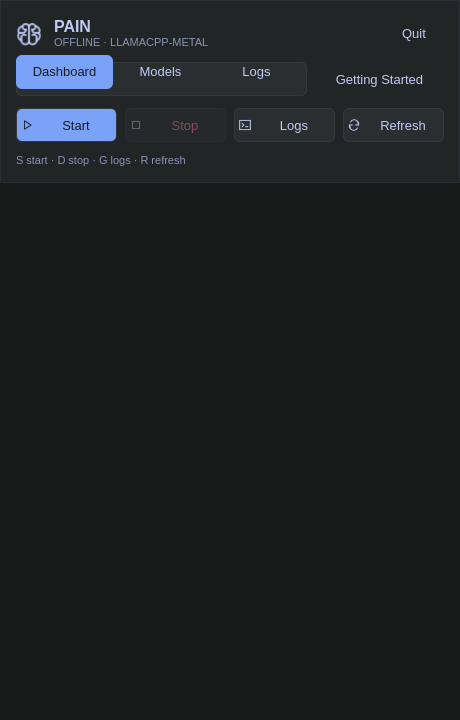
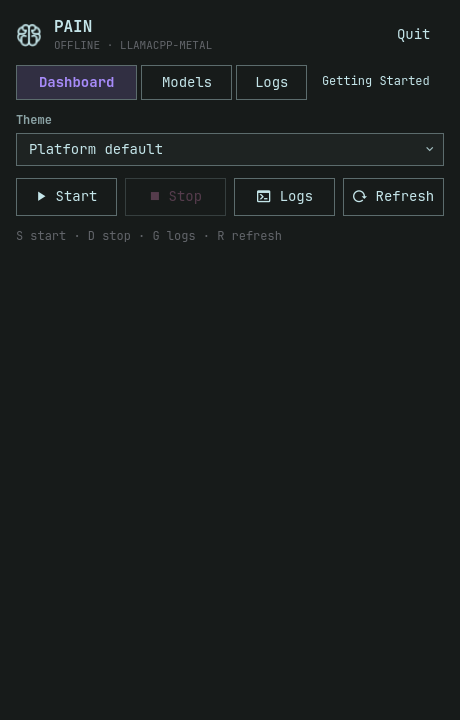
Use platform themes with a saved appearance picker and native buttons

diff --git a/desktop/src/Tray.stories.ts b/desktop/src/Tray.stories.ts
@@ -10,3 +10,26 @@ export const Ready = scenario({when:'The engine is ready',then:'The model name a
 export const Generating = scenario({when:'The engine generates tokens',then:'Context use and speed are shown',check:async ({canvasElement})=>{for(const reading of within(canvasElement).getAllByText('24.5 tok/s')) await expect(reading).toBeVisible();}},{render:()=>domStory(panel(fixtures.generating,onAction))});
 export const Starting = scenario({when:'The engine is starting',then:'Start is disabled until the operation finishes',check:async ({canvasElement})=>{const start=within(canvasElement).getByRole('button',{name:'Starting…'});await expect(start).toHaveAttribute('aria-disabled','true');onAction.mockClear();await userEvent.click(start);await expect(onAction).not.toHaveBeenCalled();}},{render:()=>domStory(panel(fixtures.starting,onAction))});
 export const Failure = scenario({when:'Metal is unavailable',then:'The actionable failure is visible',check:async ({canvasElement})=>{await expect(within(canvasElement).getByRole('alert')).toHaveTextContent('No VirtGPU Metal device');}},{render:()=>domStory(panel(fixtures.failure,onAction))});
+
+export const Appearance = scenario({
+  when:'The appearance changes while editing a model URL',
+  then:'The selected theme applies immediately without changing the page, input, or engine',
+  check:async ({canvasElement})=>{
+    const c=within(canvasElement);
+    const saved=localStorage.getItem('pain.appearance');
+    try {
+      await userEvent.click(c.getByRole('tab',{name:'Models'}));
+      await userEvent.type(c.getByRole('textbox',{name:'Model GGUF URL'}),'https://example.invalid/model.gguf');
+      onAction.mockClear();
+      await userEvent.selectOptions(c.getByRole('combobox',{name:'Theme'}),'omarchy');
+      await expect(canvasElement.querySelector('.zen-application')).toHaveAttribute('data-appearance','omarchy');
+      await expect(c.getByRole('textbox',{name:'Model GGUF URL'})).toHaveValue('https://example.invalid/model.gguf');
+      await expect(localStorage.getItem('pain.appearance')).toBe('omarchy');
+      await expect(onAction).not.toHaveBeenCalled();
+      await userEvent.selectOptions(c.getByRole('combobox',{name:'Theme'}),'platform');
+      await expect(canvasElement.querySelector('.zen-application')).toHaveAttribute('data-appearance','visuals');
+    } finally {
+      if(saved===null)localStorage.removeItem('pain.appearance');else localStorage.setItem('pain.appearance',saved);
+    }
+  },
+},{render:()=>domStory(panel(fixtures.offline,onAction))});

diff --git a/desktop/src/panel.tsx b/desktop/src/panel.tsx
@@ -3,6 +3,7 @@ import { Application } from '@satoramoto/zen/harness/omarchy/bench/Application.t
 import type { ApplicationNode } from '@satoramoto/zen/harness/omarchy/kit/application.mjs';
 import { appView } from '../../integrations/omarchy/pain/App.mjs';
 import { initialState, transition, keyAction } from '../../integrations/omarchy/pain/AppState.mjs';
+import { appearanceFor, validTheme } from '../../integrations/omarchy/pain/Appearance.mjs';
 import { ThemeFrame } from './theme';
 import './style.css';
 
@@ -25,20 +26,25 @@ type Act = (name: Action, value?: string) => void;
 
 // This host supplies state and executes effects. Layout lives in App.mjs.
 function Panel({ status, action, logs }: { status: Status; action: Act; logs: LogsState }) {
-  const [ui, setUi] = useState(() => initialState(status));
+  const [ui, setUi] = useState(() => {
+    const state = initialState(status);
+    try { const saved = localStorage.getItem('pain.appearance'); if (validTheme(saved)) state.theme = saved!; } catch { /* A restricted webview can still use the platform default. */ }
+    return state;
+  });
   useEffect(() => setUi(current => ({ ...current, folder: status.modelsDir || '' })), [status.modelsDir]);
   const send = (name: string, payload?: unknown, value?: unknown) => {
     const next = transition(ui, status, name, value === undefined ? payload : value, logs);
     setUi(next.state);
+    if (name === 'select-theme') { try { localStorage.setItem('pain.appearance', next.state.theme); } catch { /* Keep the live selection when storage is unavailable. */ } }
     for (const effect of next.effects) {
       if (effect.action !== 'close') action(effect.action as Action, effect.payload as string | undefined);
     }
   };
-  return <Application tree={appView(status, ui, logs) as ApplicationNode} dispatch={send} handleKey={key => {
+  return <ThemeFrame appearance={appearanceFor(ui.theme, 'mac')}><Application appearance={appearanceFor(ui.theme, 'mac')} tree={appView(status, ui, logs) as ApplicationNode} dispatch={send} handleKey={key => {
     const command = keyAction(ui, key);
     if (!command) return false;
     send(command); return true;
-  }} />;
+  }} /></ThemeFrame>;
 }
 
-export const panel = (status: Status, action: Act, logs: LogsState = initialLogs) => <ThemeFrame><Panel status={status} action={action} logs={logs} /></ThemeFrame>;
+export const panel = (status: Status, action: Act, logs: LogsState = initialLogs) => <Panel status={status} action={action} logs={logs} />;

diff --git a/integrations/omarchy/pain/Widget.qml b/integrations/omarchy/pain/Widget.qml
@@ -1,5 +1,6 @@
 import QtQuick
 import QtQuick.Controls
+import QtCore
 import Quickshell
 import Quickshell.Io
 import qs.Ui
@@ -7,6 +8,7 @@ import qs.Commons as Commons
 import "Model.js" as Model
 import "App.mjs" as View
 import "AppState.mjs" as State
+import "Appearance.mjs" as Appearance
 import ".generated" as Zen
 
 // Native host only: window, IPC, telemetry polling and action execution.
@@ -15,6 +17,12 @@ Panel {
   moduleName: "local.pain"
   ipcTarget: "local.pain"
   manageIpc: false
+  Settings {
+    id:preferences
+    location:"file://"+(Quickshell.env("XDG_STATE_HOME") || Quickshell.env("HOME")+"/.local/state")+"/pain/ui.ini"
+    property string appearance:"platform"
+  }
+  Zen.ApplicationTheme { id:applicationTheme; name:Appearance.appearanceFor(root.ui.theme,"linux") }
   property var status: ({})
   property var ui: State.initialState()
   property var logs: ({state:"idle",content:"",error:""})
@@ -37,6 +45,7 @@ Panel {
   function dispatch(action,payload,value) {
     var next=State.transition(ui,viewStatus,action,value===undefined?payload:value,logs)
     ui=next.state
+    if(action==="select-theme") preferences.appearance=ui.theme
     for(var effect of next.effects) {
       if(effect.action === "refresh") refresh()
       else if(effect.action === "close" || effect.action === "quit") close()
@@ -67,7 +76,7 @@ Panel {
   }
   implicitWidth:button.implicitWidth
   implicitHeight:button.implicitHeight
-  Component.onCompleted:refresh()
+  Component.onCompleted:{ ui=Object.assign({},ui,{theme:Appearance.validTheme(preferences.appearance)?preferences.appearance:"platform"}); refresh() }
   onOpenedChanged:if(opened) { refresh(); Qt.callLater(()=>application.forceActiveFocus()) }
   // Poll slowly for the bar glyph while closed; the open panel tracks the slot.
   Timer {
@@ -157,7 +166,7 @@ Panel {
     contentWidth:panel.fittedContentWidth(460)
     contentHeight:panel.fittedContentHeight(application.implicitHeight,720)
     Zen.Application {
-      id:application; anchors.fill:parent; tree:root.tree
+      id:application; anchors.fill:parent; tree:root.tree; theme:applicationTheme.snapshot
       onDispatched:function(action,payload,value) { root.dispatch(action,payload,value) }
       Keys.onPressed:function(event) {
         if(event.modifiers & (Qt.ControlModifier | Qt.AltModifier | Qt.MetaModifier)) return

diff --git a/desktop/src/theme.tsx b/desktop/src/theme.tsx
@@ -1,9 +1,12 @@
+import { appearanceFor } from '../../integrations/omarchy/pain/Appearance.mjs';
 import type { ReactNode } from 'react';
-import { Surface, ThemeScope, resolveTheme } from './zen';
+import { Surface, ThemeScope } from './zen';
+
+import { resolveApplicationTheme } from '@satoramoto/zen/harness/omarchy/bench/application-theme.ts';
 
 // Same scope and transparent ground as visual[flow]'s app frame. The native
 // window supplies HUD frost; Zen owns the glass, type, contrast, and controls.
-const visuals = resolveTheme({ theme: 'visuals' });
+const visuals = resolveApplicationTheme('visuals');
 const layers = visuals.facets.materials.layers;
 const facets = {
   ...visuals.facets,
@@ -19,8 +22,13 @@ const facets = {
   },
 };
 
-export function ThemeFrame({ children }: { children: ReactNode }) {
-  return <ThemeScope facets={facets} principles={visuals.pack.principles} mode="system" bleed>
+export function ThemeFrame({ children, appearance }: { children: ReactNode; appearance?: string }) {
+  let selected = appearance;
+  if (!selected) {
+    try { selected = appearanceFor(localStorage.getItem('pain.appearance'), 'mac'); } catch { selected = 'visuals'; }
+  }
+  const chosen = resolveApplicationTheme(selected || 'visuals');
+  return <ThemeScope facets={selected === 'visuals' ? facets : chosen.facets} principles={chosen.pack.principles} mode="system" bleed>
     <Surface layer="ground" className="pain-window">{children}</Surface>
   </ThemeScope>;
 }

diff --git a/scripts/render-omarchy.py b/scripts/render-omarchy.py
@@ -24,7 +24,7 @@ def main():
     ):
         target = work / name
         if not target.exists(): target.symlink_to(source_path, target_is_directory=source_path.is_dir())
-    for name in ('App.mjs', 'AppState.mjs'):
+    for name in ('App.mjs', 'AppState.mjs', 'Appearance.mjs'):
         target = work / name
         if not target.exists(): target.symlink_to(ROOT / 'integrations/omarchy/pain' / name)
     fixtures = json.loads((ROOT / 'desktop/public/fixtures.json').read_text())
@@ -40,12 +40,13 @@ import ".generated" as Zen
 Window {
     width:460; height:720; visible:true; color:"#171b1a"
     property var status: STATUS
+    Zen.ApplicationTheme { id:theme; name:THEME }
     Rectangle { id:capture; anchors.fill:parent; color:"#171b1a"
-        Zen.Application { anchors.fill:parent; tree:View.appView(status,State.initialState(status)) }
+        Zen.Application { anchors.fill:parent; theme:theme.snapshot; tree:View.appView(status,State.initialState(status)) }
     }
     Timer { interval:1200; running:true; onTriggered:capture.grabToImage(function(result) { if(!result.saveToFile(OUTPUT)) Qt.exit(2); else Qt.quit() }) }
 }
-'''.replace('STATUS', json.dumps(status)).replace('OUTPUT', json.dumps(str(output)))
+'''.replace('STATUS', json.dumps(status)).replace('OUTPUT', json.dumps(str(output))).replace('THEME', json.dumps(os.environ.get('PAIN_PREVIEW_THEME', 'omarchy')))
         (work / 'shell.qml').write_text(qml)
         runtime = work / 'runtime'
         runtime.mkdir(mode=0o700, exist_ok=True)

diff --git a/docs/macos.md b/docs/macos.md
@@ -42,7 +42,13 @@ are external persistent data, never part of the app bundle.
 
 The **Dashboard** and **Models** tabs share a pinned, aligned action toolbar.
 Mac uses Visual Flow's Zen theme, separated glass section surfaces and native
-macOS HUD-window vibrancy. Linux renders the same view through Zen’s QML application binding.
+macOS HUD-window vibrancy. Linux renders the same view through Zen’s QML
+application binding, using the live Omarchy style by default. The shared **Theme**
+picker offers **Platform default**, **Omarchy**, and **Visual Flow** and remembers
+the selection. Native Omarchy controls follow the desktop’s button states, colors,
+font and corners. The Mac Omarchy option uses Zen’s portable fallback palette
+because macOS has no Omarchy shell. Layout and engine state stay unchanged when
+switching themes.
 
 The separate **Models** view shows supported presets, download sizes and local
 availability. Use **Download** or **Resume** to fetch a preset and **Use** to

diff --git a/AGENTS.md b/AGENTS.md
@@ -1,6 +1,8 @@
 # PAIN development
 
-The Mac view is the visual and interaction reference for every platform. Define
+The Mac view is the layout and interaction reference for every platform. Linux
+defaults to the live Omarchy style; macOS defaults to Visual Flow frost. Theme
+selection changes materials and controls without forking the shared layout. Define
 the entire interface once through Zen's portable view vocabulary: dashboard,
 navigation, model manager, logs, and controls. Both the browser and QML renderers
 consume that definition. Do not keep separate React and handwritten QML screens.
